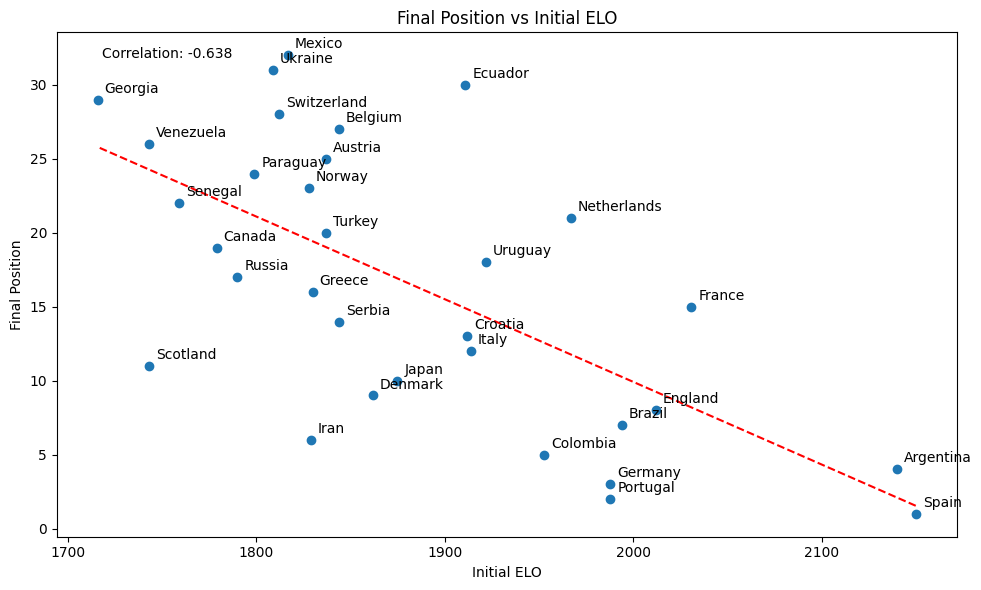
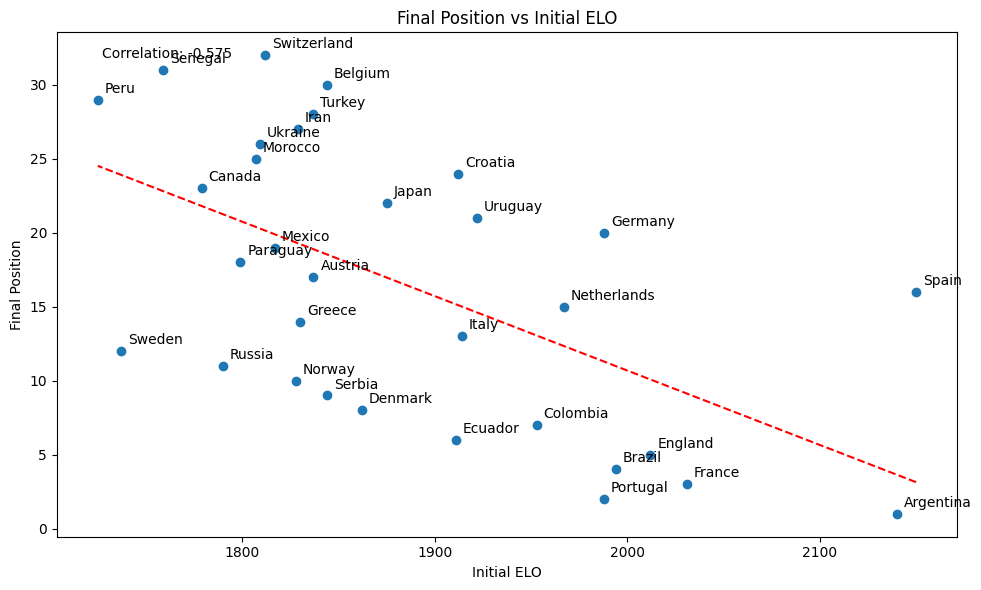
add batch simulations

diff --git a/batch_sim.py b/batch_sim.py
@@ -1,0 +1,111 @@
+import argparse
+from pathlib import Path
+from collections import defaultdict
+
+import numpy as np
+import pandas as pd
+from tqdm import tqdm
+
+# ─── project imports ──────────────────────────────────────────────────────────
+from formats.fifa2026 import FIFA2026Tournament
+from formats.playoff   import PlayoffTournament
+from formats.swiss     import SwissTournament
+
+from evaluators.elo_correlation         import EloCorrelationEvaluator
+from evaluators.incentive_compatibility import IncentiveCompatibilityEvaluator
+
+from core.team         import Team
+from core.match_engine import MatchEngine
+from core.knockout_stage import KnockoutStage
+
+corr_eval = EloCorrelationEvaluator()
+ic_eval   = IncentiveCompatibilityEvaluator()
+
+
+def get_rankings_from_knockout(knockout):
+    champion   = knockout.get_champion()
+    last_match = knockout.rounds[-1][0]
+    runner_up  = last_match[0] if last_match[0] != champion else last_match[1]
+    third_place = [m[3] for m in knockout.rounds[-2]
+                   if m[3] not in (champion, runner_up)]
+    rankings = [champion, runner_up] + third_place
+    for round_size in [4, 8, 16, 32]:
+        rankings.extend([t for t, r in knockout.eliminated.items()
+                         if r == round_size and t not in rankings])
+    return rankings
+
+
+def run_one(tournament_cls, ratings_df):
+    """Play one complete tournament and return (rho, pos_err, dead_pct)."""
+    teams = [Team(row["Country"], int(row["Rating"]))
+             for _, row in ratings_df.iterrows()]
+
+    match_engine = MatchEngine()
+    tour = tournament_cls(teams, match_engine)
+    tour.run()                                  
+
+    if isinstance(tour, FIFA2026Tournament):
+        qualified = tour.get_qualified_teams()
+        knockout = KnockoutStage(qualified, match_engine)
+        knockout.simulate()
+        rankings = get_rankings_from_knockout(knockout)
+    else:
+        rankings = tour.get_rankings()
+
+    df = pd.DataFrame({
+        "team":     [t.name for t in rankings],
+        "position": range(1, len(rankings) + 1)
+    })
+    initial_elos = ratings_df.rename(columns={"Country": "team",
+                                            "Rating":  "elo"})
+    corr = corr_eval.evaluate(df, initial_elos)
+
+    try:
+        ic   = ic_eval.evaluate(tour)
+        dead = ic["pct_low_incentive"]         
+    except Exception:
+        dead = 0.0                            
+    return corr["correlation"], corr["avg_diff"], dead
+
+def main(args):
+    ratings_df = pd.read_csv(args.rating_csv)
+    out_dir    = Path("results")
+    out_dir.mkdir(exist_ok=True)
+
+    formats = {
+        "FIFA2026": FIFA2026Tournament,
+        "Playoff":  PlayoffTournament,
+        "Swiss8R":  SwissTournament,
+    }
+
+    metrics = defaultdict(list)
+
+    for fmt_name, tour_cls in formats.items():
+        print(f"\nRunning {args.n} editions of {fmt_name} …")
+        for _ in tqdm(range(args.n)):
+            rho, err, dead = run_one(tour_cls, ratings_df)
+            metrics["format"].append(fmt_name)
+            metrics["rho"].append(rho)
+            metrics["err"].append(err)
+            metrics["dead_pct"].append(dead)
+
+    df = pd.DataFrame(metrics)
+    df.to_csv(out_dir / "batch_metrics.csv", index=False)
+
+    print("\n=== Monte-Carlo summary (mean ± SD) ===")
+    summary = (df.groupby("format")
+                 .agg({"rho":      ["mean", "std"],
+                       "err":      ["mean", "std"],
+                       "dead_pct": ["mean", "std"]})
+                 .round(3))
+    print(summary.to_markdown())
+    print(f"\nRaw data saved → {out_dir/'batch_metrics.csv'}")
+
+
+if __name__ == "__main__":
+    parser = argparse.ArgumentParser()
+    parser.add_argument("--n", type=int, default=1000,
+                        help="repetitions per format (default 1000)")
+    parser.add_argument("--rating_csv", required=True,
+                        help="CSV with columns: Country, Rating")
+    main(parser.parse_args())
